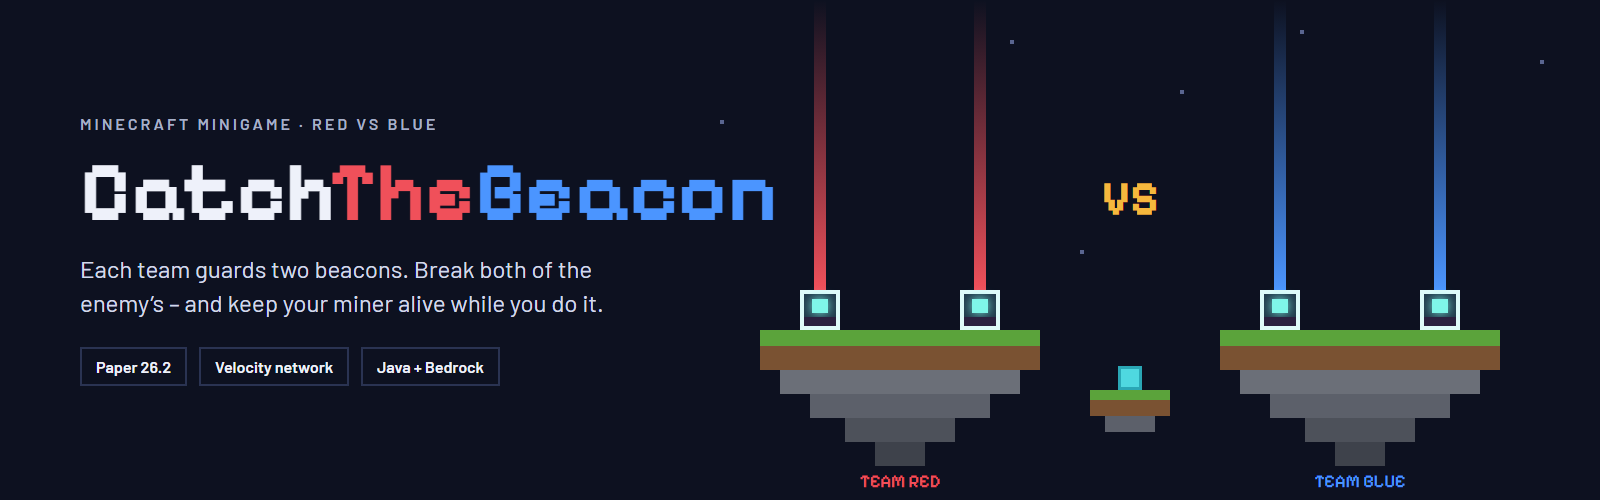
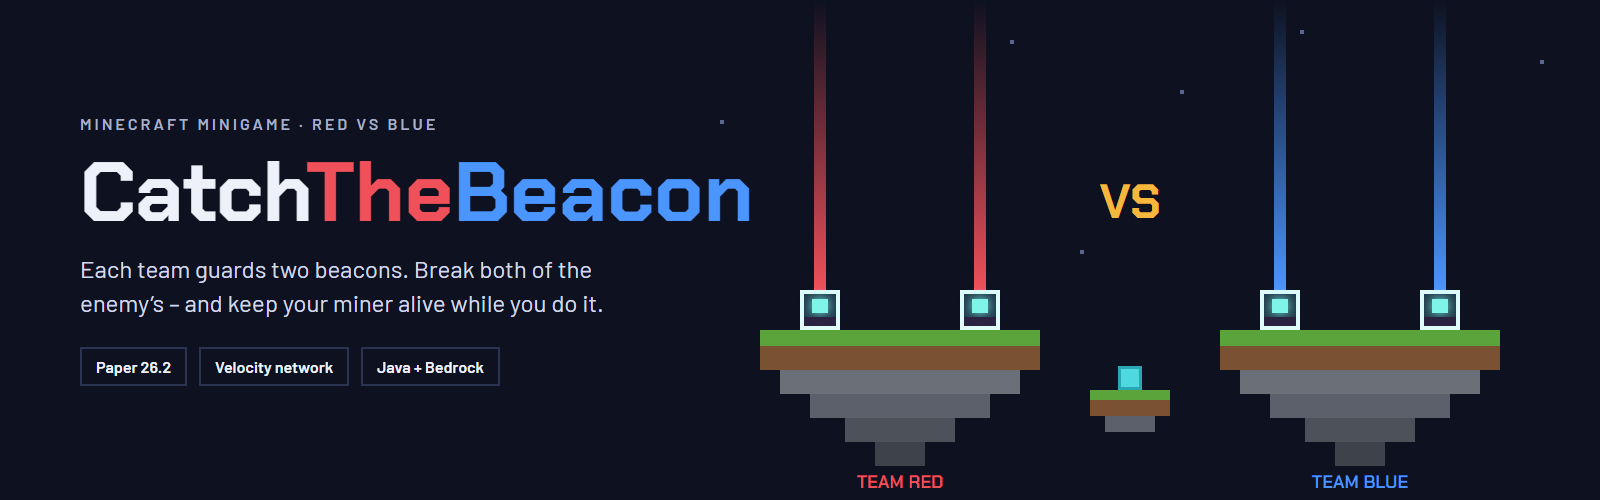
Add README, update the features image and use a more readable heading font

diff --git a/branding/design/Features.dc.html b/branding/design/Features.dc.html
@@ -9,71 +9,113 @@
 <x-dc>
 <helmet>
 <link rel="preconnect" href="https://fonts.googleapis.com">
-<link href="https://fonts.googleapis.com/css2?family=Pixelify+Sans:wght@500;700&amp;family=Barlow:wght@400;600&amp;display=swap" rel="stylesheet">
+<link href="https://fonts.googleapis.com/css2?family=Chakra+Petch:wght@600;700&amp;family=Barlow:wght@400;600&amp;display=swap" rel="stylesheet">
 <style>
 body{margin:0}
 a{color:#7FF5E8}a:hover{color:#BFFBF4}
 </style>
 </helmet>
-<div style="width: 1600px; height: 900px; box-sizing: border-box; padding: 56px 64px; background: #0D1120; font-family: 'Barlow', sans-serif; color: #EEF1FA; display: flex; flex-direction: column; gap: 40px">
+<div style="width: 1600px; height: 900px; box-sizing: border-box; padding: 52px 64px; background: #0D1120; font-family: 'Barlow', sans-serif; color: #EEF1FA; display: flex; flex-direction: column; gap: 32px">
 <div style="display: flex; flex-direction: column; gap: 10px">
-<h2 style="margin: 0; font-family: 'Pixelify Sans', sans-serif; font-weight: 700; font-size: 56px">Built for real matches</h2>
-<p style="margin: 0; font-size: 22px; color: #D3D9EA">Tactical PvP for small and big servers – set up in minutes, no config editing.</p>
+<h2 style="margin: 0; font-family: 'Chakra Petch', sans-serif; font-weight: 700; font-size: 56px">Built for real matches</h2>
+<p style="margin: 0; font-size: 22px; color: #D3D9EA">Tactical team PvP for Paper – from a single server to a Velocity network.</p>
 </div>
-<div style="display: grid; grid-template-columns: repeat(3, minmax(0, 1fr)); gap: 24px; flex-grow: 1">
+<div style="display: grid; grid-template-columns: repeat(4, minmax(0, 1fr)); grid-template-rows: repeat(3, minmax(0, 1fr)); gap: 20px; flex-grow: 1">
 
-<div style="background: #151B2E; border: 2px solid #2A3352; padding: 28px; display: flex; flex-direction: column; gap: 12px">
-<svg width="36" height="36" viewBox="0 0 24 24" fill="none" stroke="#7FF5E8" stroke-width="2" stroke-linecap="square"><rect x="5" y="12" width="14" height="10"></rect><line x1="12" y1="2" x2="12" y2="12"></line><rect x="9" y="15" width="6" height="4"></rect></svg>
-<h3 style="margin: 0; font-size: 24px; font-weight: 600">Two beacons per team</h3>
-<p style="margin: 0; font-size: 17px; line-height: 1.45; color: #D3D9EA">Break both enemy cores to win. Losing one isn’t the end.</p>
+<div style="background: #151B2E; border: 2px solid #2A3352; padding: 22px 24px; display: flex; flex-direction: column; gap: 10px">
+<div style="display: flex; gap: 12px; align-items: center">
+<svg width="30" height="30" viewBox="0 0 24 24" fill="none" stroke="#7FF5E8" stroke-width="2" stroke-linecap="square"><rect x="5" y="12" width="14" height="10"></rect><line x1="12" y1="2" x2="12" y2="12"></line><rect x="9" y="15" width="6" height="4"></rect></svg>
+<h3 style="margin: 0; font-size: 23px; font-weight: 600">Two beacons per team</h3>
 </div>
-
-<div style="background: #151B2E; border: 2px solid #2A3352; padding: 28px; display: flex; flex-direction: column; gap: 12px">
-<svg width="36" height="36" viewBox="0 0 24 24" fill="none" stroke="#F5B83D" stroke-width="2" stroke-linecap="square"><path d="M4 8c4-5 12-5 16 0"></path><line x1="12" y1="5" x2="12" y2="21"></line><line x1="9" y1="21" x2="15" y2="21"></line></svg>
-<h3 style="margin: 0; font-size: 24px; font-weight: 600">Mining Fatigue zones</h3>
-<p style="margin: 0; font-size: 17px; line-height: 1.45; color: #D3D9EA">A beacon takes ~15 s to break. Rushing alone won’t work – teamwork does.</p>
+<p style="margin: 0; font-size: 18px; line-height: 1.45; color: #D3D9EA">Break both enemy cores to win. A live boss bar shows every attack on a beacon.</p>
 </div>
 
-<div style="background: #151B2E; border: 2px solid #2A3352; padding: 28px; display: flex; flex-direction: column; gap: 12px">
-<svg width="36" height="36" viewBox="0 0 24 24" fill="none" stroke="#4FD8E0" stroke-width="2" stroke-linejoin="miter"><path d="M6 3h12l4 6-10 12L2 9z"></path><path d="M2 9h20"></path></svg>
-<h3 style="margin: 0; font-size: 24px; font-weight: 600">Resources, not generators</h3>
-<p style="margin: 0; font-size: 17px; line-height: 1.45; color: #D3D9EA">Iron and diamond blocks are part of the map. Raid the enemy’s, secure yours.</p>
+<div style="background: #151B2E; border: 2px solid #2A3352; padding: 22px 24px; display: flex; flex-direction: column; gap: 10px">
+<div style="display: flex; gap: 12px; align-items: center">
+<svg width="30" height="30" viewBox="0 0 24 24" fill="none" stroke="#F5B83D" stroke-width="2" stroke-linecap="square"><path d="M4 8c4-5 12-5 16 0"></path><line x1="12" y1="5" x2="12" y2="21"></line><line x1="9" y1="21" x2="15" y2="21"></line></svg>
+<h3 style="margin: 0; font-size: 23px; font-weight: 600">Mining Fatigue zones</h3>
+</div>
+<p style="margin: 0; font-size: 18px; line-height: 1.45; color: #D3D9EA">A beacon takes about 15 seconds. One player mines, the team has to cover them.</p>
 </div>
 
-<div style="background: #151B2E; border: 2px solid #2A3352; padding: 28px; display: flex; flex-direction: column; gap: 12px">
-<svg width="36" height="36" viewBox="0 0 24 24" fill="none" stroke="#F0505A" stroke-width="2" stroke-linejoin="round"><path d="M12 20s-8-5-8-11a4 4 0 0 1 8-1 4 4 0 0 1 8 1c0 6-8 11-8 11z"></path></svg>
-<h3 style="margin: 0; font-size: 24px; font-weight: 600">Fair kit</h3>
-<p style="margin: 0; font-size: 17px; line-height: 1.45; color: #D3D9EA">Start gear on every respawn, 16 arrows, 3 extra hearts, protected spawn.</p>
+<div style="background: #151B2E; border: 2px solid #2A3352; padding: 22px 24px; display: flex; flex-direction: column; gap: 10px">
+<div style="display: flex; gap: 12px; align-items: center">
+<svg width="30" height="30" viewBox="0 0 24 24" fill="none" stroke="#4B95FF" stroke-width="2" stroke-linejoin="miter"><path d="M12 2l8 3v6c0 5-3.5 9-8 11-4.5-2-8-6-8-11V5z"></path></svg>
+<h3 style="margin: 0; font-size: 23px; font-weight: 600">Base defense</h3>
+</div>
+<p style="margin: 0; font-size: 18px; line-height: 1.45; color: #D3D9EA">Alarm when enemies get close, a trap at every beacon, regeneration for defenders, no camping.</p>
 </div>
 
-<div style="background: #151B2E; border: 2px solid #2A3352; padding: 28px; display: flex; flex-direction: column; gap: 12px">
-<svg width="36" height="36" viewBox="0 0 24 24" fill="none" stroke="#8CC77F" stroke-width="2" stroke-linecap="square"><path d="M14 4l6 6"></path><path d="M10 4c4 0 8 2 10 6"></path><line x1="16" y1="8" x2="4" y2="20"></line></svg>
-<h3 style="margin: 0; font-size: 24px; font-weight: 600">Fully breakable maps</h3>
-<p style="margin: 0; font-size: 17px; line-height: 1.45; color: #D3D9EA">Bridge, tunnel and dig anywhere – or protect blocks via config.</p>
+<div style="background: #151B2E; border: 2px solid #2A3352; padding: 22px 24px; display: flex; flex-direction: column; gap: 10px">
+<div style="display: flex; gap: 12px; align-items: center">
+<svg width="30" height="30" viewBox="0 0 24 24" fill="none" stroke="#4FD8E0" stroke-width="2" stroke-linejoin="miter"><path d="M6 3h12l4 6-10 12L2 9z"></path><path d="M2 9h20"></path></svg>
+<h3 style="margin: 0; font-size: 23px; font-weight: 600">No generators</h3>
+</div>
+<p style="margin: 0; font-size: 18px; line-height: 1.45; color: #D3D9EA">Iron and diamond blocks of the map give armor and swords. Raid the enemy’s, secure yours.</p>
 </div>
 
-<div style="background: #151B2E; border: 2px solid #2A3352; padding: 28px; display: flex; flex-direction: column; gap: 12px">
-<svg width="36" height="36" viewBox="0 0 24 24" fill="none" stroke="#7FF5E8" stroke-width="2" stroke-linecap="square"><rect x="4" y="3" width="16" height="18"></rect><path d="M8 9l2 2 4-4"></path><line x1="8" y1="16" x2="16" y2="16"></line></svg>
-<h3 style="margin: 0; font-size: 24px; font-weight: 600">Guided arena setup</h3>
-<p style="margin: 0; font-size: 17px; line-height: 1.45; color: #D3D9EA">Hotbar tools and a checklist walk you through spawns and beacons.</p>
+<div style="background: #151B2E; border: 2px solid #2A3352; padding: 22px 24px; display: flex; flex-direction: column; gap: 10px">
+<div style="display: flex; gap: 12px; align-items: center">
+<svg width="30" height="30" viewBox="0 0 24 24" fill="none" stroke="#F0505A" stroke-width="2" stroke-linejoin="round"><path d="M12 20s-8-5-8-11a4 4 0 0 1 8-1 4 4 0 0 1 8 1c0 6-8 11-8 11z"></path></svg>
+<h3 style="margin: 0; font-size: 23px; font-weight: 600">Fair kit</h3>
+</div>
+<p style="margin: 0; font-size: 18px; line-height: 1.45; color: #D3D9EA">Fresh kit on every respawn, 16 arrows, 3 extra hearts, spawn protection. Modern or 1.8 PvP.</p>
 </div>
 
-<div style="background: #151B2E; border: 2px solid #2A3352; padding: 28px; display: flex; flex-direction: column; gap: 12px">
-<svg width="36" height="36" viewBox="0 0 24 24" fill="none" stroke="#F5B83D" stroke-width="2" stroke-linecap="square"><rect x="3" y="4" width="18" height="11"></rect><line x1="12" y1="15" x2="12" y2="21"></line><line x1="7" y1="8" x2="17" y2="8"></line><line x1="7" y1="11" x2="13" y2="11"></line></svg>
-<h3 style="margin: 0; font-size: 24px; font-weight: 600">Signs, NPCs, parties</h3>
-<p style="margin: 0; font-size: 17px; line-height: 1.45; color: #D3D9EA">Join signs, Citizens/FancyNpcs, Parties and Party and Friends.</p>
+<div style="background: #151B2E; border: 2px solid #2A3352; padding: 22px 24px; display: flex; flex-direction: column; gap: 10px">
+<div style="display: flex; gap: 12px; align-items: center">
+<svg width="30" height="30" viewBox="0 0 24 24" fill="none" stroke="#F5B83D" stroke-width="2" stroke-linecap="square"><rect x="3" y="3" width="18" height="18"></rect><rect x="7" y="7" width="2" height="2"></rect><rect x="15" y="7" width="2" height="2"></rect><rect x="11" y="11" width="2" height="2"></rect><rect x="7" y="15" width="2" height="2"></rect><rect x="15" y="15" width="2" height="2"></rect></svg>
+<h3 style="margin: 0; font-size: 23px; font-weight: 600">Variants and events</h3>
+</div>
+<p style="margin: 0; font-size: 18px; line-height: 1.45; color: #D3D9EA">Vote for Rush, Bow only, No iron or One hit. Timed events keep every round moving.</p>
 </div>
 
-<div style="background: #151B2E; border: 2px solid #2A3352; padding: 28px; display: flex; flex-direction: column; gap: 12px">
-<svg width="36" height="36" viewBox="0 0 24 24" fill="none" stroke="#4B95FF" stroke-width="2" stroke-linecap="square"><rect x="9" y="2" width="6" height="6"></rect><rect x="2" y="16" width="6" height="6"></rect><rect x="16" y="16" width="6" height="6"></rect><path d="M12 8v4M5 16v-4h14v4"></path></svg>
-<h3 style="margin: 0; font-size: 24px; font-weight: 600">Velocity network mode</h3>
-<p style="margin: 0; font-size: 17px; line-height: 1.45; color: #D3D9EA">One game per server, lobby signs with live status, shared MySQL stats.</p>
+<div style="background: #151B2E; border: 2px solid #2A3352; padding: 22px 24px; display: flex; flex-direction: column; gap: 10px">
+<div style="display: flex; gap: 12px; align-items: center">
+<svg width="30" height="30" viewBox="0 0 24 24" fill="none" stroke="#8CC77F" stroke-width="2" stroke-linecap="square"><path d="M7 3h10v6a5 5 0 0 1-10 0z"></path><path d="M7 5H3v2a4 4 0 0 0 4 4M17 5h4v2a4 4 0 0 1-4 4"></path><line x1="12" y1="14" x2="12" y2="18"></line><line x1="8" y1="21" x2="16" y2="21"></line></svg>
+<h3 style="margin: 0; font-size: 23px; font-weight: 600">Stats and achievements</h3>
+</div>
+<p style="margin: 0; font-size: 18px; line-height: 1.45; color: #D3D9EA">Leaderboard, 8 achievements and a round summary with MVP. SQLite or MySQL.</p>
 </div>
 
-<div style="background: #151B2E; border: 2px solid #2A3352; padding: 28px; display: flex; flex-direction: column; gap: 12px">
-<svg width="36" height="36" viewBox="0 0 24 24" fill="none" stroke="#8CC77F" stroke-width="2" stroke-linecap="square"><line x1="4" y1="20" x2="20" y2="20"></line><rect x="6" y="12" width="3" height="8"></rect><rect x="11" y="6" width="3" height="14"></rect><rect x="16" y="9" width="3" height="11"></rect></svg>
-<h3 style="margin: 0; font-size: 24px; font-weight: 600">Stats and achievements</h3>
-<p style="margin: 0; font-size: 17px; line-height: 1.45; color: #D3D9EA">SQLite or MySQL, PlaceholderAPI, Bedrock forms via Floodgate.</p>
+<div style="background: #151B2E; border: 2px solid #2A3352; padding: 22px 24px; display: flex; flex-direction: column; gap: 10px">
+<div style="display: flex; gap: 12px; align-items: center">
+<svg width="30" height="30" viewBox="0 0 24 24" fill="none" stroke="#7FF5E8" stroke-width="2" stroke-linejoin="round"><path d="M2 12s4-7 10-7 10 7 10 7-4 7-10 7S2 12 2 12z"></path><circle cx="12" cy="12" r="3"></circle></svg>
+<h3 style="margin: 0; font-size: 23px; font-weight: 600">Spectate and rejoin</h3>
+</div>
+<p style="margin: 0; font-size: 18px; line-height: 1.45; color: #D3D9EA">Watch running games. Lost connection? Come back into your team within 2 minutes.</p>
+</div>
+
+<div style="background: #151B2E; border: 2px solid #2A3352; padding: 22px 24px; display: flex; flex-direction: column; gap: 10px">
+<div style="display: flex; gap: 12px; align-items: center">
+<svg width="30" height="30" viewBox="0 0 24 24" fill="none" stroke="#7FF5E8" stroke-width="2" stroke-linecap="square"><rect x="4" y="3" width="16" height="18"></rect><path d="M8 9l2 2 4-4"></path><line x1="8" y1="16" x2="16" y2="16"></line></svg>
+<h3 style="margin: 0; font-size: 23px; font-weight: 600">Setup in minutes</h3>
+</div>
+<p style="margin: 0; font-size: 18px; line-height: 1.45; color: #D3D9EA">Guided setup with hotbar tools. Map presets: drop in the Sakura zip and play.</p>
+</div>
+
+<div style="background: #151B2E; border: 2px solid #2A3352; padding: 22px 24px; display: flex; flex-direction: column; gap: 10px">
+<div style="display: flex; gap: 12px; align-items: center">
+<svg width="30" height="30" viewBox="0 0 24 24" fill="none" stroke="#F5B83D" stroke-width="2" stroke-linecap="square"><rect x="3" y="4" width="18" height="11"></rect><line x1="12" y1="15" x2="12" y2="21"></line><line x1="7" y1="8" x2="17" y2="8"></line><line x1="7" y1="11" x2="13" y2="11"></line></svg>
+<h3 style="margin: 0; font-size: 23px; font-weight: 600">Signs, NPCs, parties</h3>
+</div>
+<p style="margin: 0; font-size: 18px; line-height: 1.45; color: #D3D9EA">Join signs, Citizens and FancyNpcs, Parties and Party and Friends. Balanced teams.</p>
+</div>
+
+<div style="background: #151B2E; border: 2px solid #2A3352; padding: 22px 24px; display: flex; flex-direction: column; gap: 10px">
+<div style="display: flex; gap: 12px; align-items: center">
+<svg width="30" height="30" viewBox="0 0 24 24" fill="none" stroke="#4B95FF" stroke-width="2" stroke-linecap="square"><rect x="9" y="2" width="6" height="6"></rect><rect x="2" y="16" width="6" height="6"></rect><rect x="16" y="16" width="6" height="6"></rect><path d="M12 8v4M5 16v-4h14v4"></path></svg>
+<h3 style="margin: 0; font-size: 23px; font-weight: 600">Velocity network</h3>
+</div>
+<p style="margin: 0; font-size: 18px; line-height: 1.45; color: #D3D9EA">One game per server, lobby signs with live status, shared stats in MySQL.</p>
+</div>
+
+<div style="background: #151B2E; border: 2px solid #2A3352; padding: 22px 24px; display: flex; flex-direction: column; gap: 10px">
+<div style="display: flex; gap: 12px; align-items: center">
+<svg width="30" height="30" viewBox="0 0 24 24" fill="none" stroke="#8CC77F" stroke-width="2" stroke-linecap="square"><path d="M8 2v5M16 2v5"></path><path d="M5 7h14v4a7 7 0 0 1-14 0z"></path><line x1="12" y1="18" x2="12" y2="22"></line></svg>
+<h3 style="margin: 0; font-size: 23px; font-weight: 600">Works with your plugins</h3>
+</div>
+<p style="margin: 0; font-size: 18px; line-height: 1.45; color: #D3D9EA">PlaceholderAPI, TAB, EssentialsX, Multiverse, Vault rewards, Bedrock forms via Floodgate.</p>
 </div>
 </div>
 </div>

diff --git a/branding/design/HowItWorks.dc.html b/branding/design/HowItWorks.dc.html
@@ -9,7 +9,7 @@
 <x-dc>
 <helmet>
 <link rel="preconnect" href="https://fonts.googleapis.com">
-<link href="https://fonts.googleapis.com/css2?family=Pixelify+Sans:wght@500;700&amp;family=Barlow:wght@400;600&amp;display=swap" rel="stylesheet">
+<link href="https://fonts.googleapis.com/css2?family=Chakra+Petch:wght@600;700&amp;family=Barlow:wght@400;600&amp;display=swap" rel="stylesheet">
 <style>
 body{margin:0}
 a{color:#7FF5E8}a:hover{color:#BFFBF4}
@@ -18,21 +18,21 @@ a{color:#7FF5E8}a:hover{color:#BFFBF4}
 <div style="position: relative; width: 1600px; height: 900px; overflow: hidden; background: #0D1120; font-family: 'Barlow', sans-serif; color: #EEF1FA">
 
 <div style="position: absolute; left: 64px; top: 56px; width: 1400px; display: flex; flex-direction: column; gap: 10px">
-<h2 style="margin: 0; font-family: 'Pixelify Sans', sans-serif; font-weight: 700; font-size: 56px">How a round works</h2>
+<h2 style="margin: 0; font-family: 'Chakra Petch', sans-serif; font-weight: 700; font-size: 56px">How a round works</h2>
 <p style="margin: 0; font-size: 22px; color: #D3D9EA">Red vs Blue on a sky map. Every team guards <b>two beacons</b>. Break both enemy beacons to win.</p>
 </div>
 
 <div style="position: absolute; left: 64px; top: 200px; width: 980px; height: 620px; background: #151B2E; border: 2px solid #2A3352; box-sizing: border-box">
 
 <div style="position: absolute; left: 40px; top: 150px; width: 260px; height: 320px; box-sizing: border-box; background: #2E1A22; border: 3px solid #F0505A"></div>
-<div style="position: absolute; left: 52px; top: 160px; font-family: 'Pixelify Sans', sans-serif; font-size: 18px; color: #F0505A">RED BASE</div>
+<div style="position: absolute; left: 52px; top: 160px; font-family: 'Chakra Petch', sans-serif; font-size: 18px; color: #F0505A">RED BASE</div>
 <div style="position: absolute; left: 680px; top: 150px; width: 260px; height: 320px; box-sizing: border-box; background: #162847; border: 3px solid #4B95FF"></div>
-<div style="position: absolute; left: 836px; top: 160px; font-family: 'Pixelify Sans', sans-serif; font-size: 18px; color: #4B95FF">BLUE BASE</div>
+<div style="position: absolute; left: 836px; top: 160px; font-family: 'Chakra Petch', sans-serif; font-size: 18px; color: #4B95FF">BLUE BASE</div>
 
 <div style="position: absolute; left: 300px; top: 290px; width: 80px; height: 20px; background: #3A4466"></div>
 <div style="position: absolute; left: 600px; top: 290px; width: 80px; height: 20px; background: #3A4466"></div>
 <div style="position: absolute; left: 380px; top: 200px; width: 220px; height: 220px; box-sizing: border-box; background: #1E2B26; border: 3px solid #4F7A48"></div>
-<div style="position: absolute; left: 392px; top: 210px; font-family: 'Pixelify Sans', sans-serif; font-size: 18px; color: #8CC77F">MID</div>
+<div style="position: absolute; left: 392px; top: 210px; font-family: 'Chakra Petch', sans-serif; font-size: 18px; color: #8CC77F">MID</div>
 
 <div style="position: absolute; left: 652px; top: 118px; width: 180px; height: 180px; box-sizing: border-box; border-radius: 50%; border: 3px dashed #F5B83D; background: rgba(245,184,61,0.08)"></div>
 <div style="position: absolute; left: 652px; top: 328px; width: 180px; height: 180px; box-sizing: border-box; border-radius: 50%; border: 3px dashed #F5B83D; background: rgba(245,184,61,0.08)"></div>
@@ -93,21 +93,21 @@ a{color:#7FF5E8}a:hover{color:#BFFBF4}
 
 <div style="position: absolute; left: 1100px; top: 200px; width: 436px; display: flex; flex-direction: column; gap: 36px">
 <div style="display: flex; gap: 20px">
-<div style="font-family: 'Pixelify Sans', sans-serif; font-weight: 700; font-size: 44px; line-height: 1; color: #F5B83D">1</div>
+<div style="font-family: 'Chakra Petch', sans-serif; font-weight: 700; font-size: 44px; line-height: 1; color: #F5B83D">1</div>
 <div style="display: flex; flex-direction: column; gap: 8px">
 <h3 style="margin: 0; font-size: 26px; font-weight: 600">Gear up</h3>
 <p style="margin: 0; font-size: 18px; line-height: 1.45; color: #D3D9EA">Fresh kit on every respawn: 16 arrows, 3 extra hearts. Upgrade by mining the iron and diamond blocks built into the map – no generators.</p>
 </div>
 </div>
 <div style="display: flex; gap: 20px">
-<div style="font-family: 'Pixelify Sans', sans-serif; font-weight: 700; font-size: 44px; line-height: 1; color: #F5B83D">2</div>
+<div style="font-family: 'Chakra Petch', sans-serif; font-weight: 700; font-size: 44px; line-height: 1; color: #F5B83D">2</div>
 <div style="display: flex; flex-direction: column; gap: 8px">
 <h3 style="margin: 0; font-size: 26px; font-weight: 600">Push as a team</h3>
 <p style="margin: 0; font-size: 18px; line-height: 1.45; color: #D3D9EA">Near an enemy beacon you get Mining Fatigue. One player breaks the beacon, the others keep them alive.</p>
 </div>
 </div>
 <div style="display: flex; gap: 20px">
-<div style="font-family: 'Pixelify Sans', sans-serif; font-weight: 700; font-size: 44px; line-height: 1; color: #F5B83D">3</div>
+<div style="font-family: 'Chakra Petch', sans-serif; font-weight: 700; font-size: 44px; line-height: 1; color: #F5B83D">3</div>
 <div style="display: flex; flex-direction: column; gap: 8px">
 <h3 style="margin: 0; font-size: 26px; font-weight: 600">Catch both beacons</h3>
 <p style="margin: 0; font-size: 18px; line-height: 1.45; color: #D3D9EA">The first team to break both enemy beacons wins. Meanwhile: don’t forget to defend your own.</p>

diff --git a/branding/design/Main.dc.html b/branding/design/Main.dc.html
@@ -9,7 +9,7 @@
 <x-dc>
 <helmet>
 <link rel="preconnect" href="https://fonts.googleapis.com">
-<link href="https://fonts.googleapis.com/css2?family=Pixelify+Sans:wght@500;700&amp;family=Barlow:wght@400;600&amp;display=swap" rel="stylesheet">
+<link href="https://fonts.googleapis.com/css2?family=Chakra+Petch:wght@600;700&amp;family=Barlow:wght@400;600&amp;display=swap" rel="stylesheet">
 <style>
 body{margin:0}
 a{color:#7FF5E8}a:hover{color:#BFFBF4}
@@ -26,7 +26,7 @@ a{color:#7FF5E8}a:hover{color:#BFFBF4}
 
 <div style="position: absolute; left: 80px; top: 0; bottom: 0; width: 620px; display: flex; flex-direction: column; justify-content: center; gap: 20px">
 <div style="font-size: 16px; font-weight: 600; letter-spacing: 3px; text-transform: uppercase; color: #A7B0C8">Minecraft minigame · Red vs Blue</div>
-<h1 style="margin: 0; font-family: 'Pixelify Sans', sans-serif; font-weight: 700; font-size: 84px; line-height: 0.95">Catch<span style="color: #F0505A">The</span><span style="color: #4B95FF">Beacon</span></h1>
+<h1 style="margin: 0; font-family: 'Chakra Petch', sans-serif; font-weight: 700; font-size: 84px; line-height: 0.95">Catch<span style="color: #F0505A">The</span><span style="color: #4B95FF">Beacon</span></h1>
 <p style="margin: 0; font-size: 24px; line-height: 1.4; color: #D3D9EA; max-width: 560px">Each team guards two beacons. Break both of the enemy’s – and keep your miner alive while you do it.</p>
 <div style="display: flex; gap: 12px; flex-wrap: wrap; margin-top: 8px">
 <div style="padding: 8px 14px; border: 2px solid #2A3352; font-size: 16px; font-weight: 600">Paper 26.2</div>
@@ -40,7 +40,7 @@ a{color:#7FF5E8}a:hover{color:#BFFBF4}
 <div style="position: absolute; left: 1274px; top: 0; width: 12px; height: 290px; background: linear-gradient(to top, #4B95FF, rgba(75,149,255,0))"></div>
 <div style="position: absolute; left: 1434px; top: 0; width: 12px; height: 290px; background: linear-gradient(to top, #4B95FF, rgba(75,149,255,0))"></div>
 
-<div style="position: absolute; left: 1086px; top: 170px; width: 88px; text-align: center; font-family: 'Pixelify Sans', sans-serif; font-weight: 700; font-size: 48px; color: #F5B83D">VS</div>
+<div style="position: absolute; left: 1086px; top: 170px; width: 88px; text-align: center; font-family: 'Chakra Petch', sans-serif; font-weight: 700; font-size: 48px; color: #F5B83D">VS</div>
 
 <div style="position: absolute; left: 760px; top: 330px; width: 280px; height: 16px; background: #5BA33B"></div>
 <div style="position: absolute; left: 760px; top: 346px; width: 280px; height: 24px; background: #7A5232"></div>
@@ -78,8 +78,8 @@ a{color:#7FF5E8}a:hover{color:#BFFBF4}
 <div style="position: absolute; left: 0; right: 0; bottom: 0; height: 9px; background: #2B2140"></div>
 </div>
 
-<div style="position: absolute; left: 760px; top: 470px; width: 280px; text-align: center; font-family: 'Pixelify Sans', sans-serif; font-size: 18px; color: #F0505A">TEAM RED</div>
-<div style="position: absolute; left: 1220px; top: 470px; width: 280px; text-align: center; font-family: 'Pixelify Sans', sans-serif; font-size: 18px; color: #4B95FF">TEAM BLUE</div>
+<div style="position: absolute; left: 760px; top: 470px; width: 280px; text-align: center; font-family: 'Chakra Petch', sans-serif; font-size: 18px; color: #F0505A">TEAM RED</div>
+<div style="position: absolute; left: 1220px; top: 470px; width: 280px; text-align: center; font-family: 'Chakra Petch', sans-serif; font-size: 18px; color: #4B95FF">TEAM BLUE</div>
 </div>
 </x-dc>
 <script type="text/x-dc" data-dc-script data-props='{"$preview":{"width":1600,"height":500}}'>

diff --git a/README.md b/README.md
@@ -1,0 +1,125 @@
+![CatchTheBeacon](https://raw.githubusercontent.com/itsthechris07/CatchTheBeacon/main/branding/banner.png)
+
+# CatchTheBeacon
+
+A team PvP minigame for Paper: **Red vs Blue on a sky map, every team guards two beacons.** Break both enemy beacons
+to win – but near an enemy beacon you get Mining Fatigue, so one player mines while the rest of the team keeps them
+alive.
+
+![How a round works](https://raw.githubusercontent.com/itsthechris07/CatchTheBeacon/main/branding/how-it-works.png)
+
+## Features
+
+![Features](https://raw.githubusercontent.com/itsthechris07/CatchTheBeacon/main/branding/features.png)
+
+**Gameplay**
+- **Two beacons per team** – both enemy beacons destroyed = victory. A boss bar shows everybody when a beacon is
+  being mined.
+- **Mining Fatigue around beacons** – breaking a beacon takes about 15 seconds, attacks need teamwork.
+- **Base defense** – the team is warned when enemies come close, every beacon has a trap (blindness + slowness),
+  defenders regenerate near their beacons and campers get poison.
+- **No generators** – iron and diamond blocks of the map give armor and swords when mined. Steal the enemy's iron,
+  guard your own.
+- **Fair start** – a fresh kit on every respawn (16 arrows, wool, stone tools, leather armor in team colors),
+  3 extra hearts, spawn and respawn protection, a compass pointing to the next enemy beacon.
+- **Modern or 1.8 PvP** – with or without attack cooldown.
+- **Variants** – players vote in the lobby: *Rush* (beacons break twice as fast, events come twice as often), *Bow only*, *No iron*, *One hit*.
+- **Timed events** – beacon protection ends after 10 minutes, effects after 15, the round ends after 25 (all configurable).
+- **The whole map can be broken** – or only placed blocks, with protected blocks of your choice.
+- **Stats, leaderboard and achievements** – kills, deaths, K/D, wins, beacons, `/ctb top`, 8 achievements, a round
+  summary with MVP. SQLite or MySQL/MariaDB.
+- **Spectators and rejoin** – watch running games, players who lose their connection get back into their team.
+- **Balanced teams** by win rate, team chat with `!` to shout, game chats don't mix with the server chat.
+- **Tips** for new players during their first rounds.
+
+**For server owners**
+- **Guided arena setup** – `/ctb arena <name> setup` gives you hotbar tools for spawns and beacons and a checklist.
+- **Map presets** – download a supported map, drop the zip into `plugins/CatchTheBeacon/maps` and it is set up
+  automatically (currently: [Sakura by BreadBuilds](https://www.planetminecraft.com/project/sakura-cores-map/)).
+  The lobby comes with the plugin.
+- **Join signs and NPCs** – `[ctb]` signs with live status, Citizens or FancyNpcs as join NPCs.
+- **Game manager GUI** – `/ctb game` lists, starts, stops and creates games.
+- **Velocity network** – one game per server, lobby server with join signs that show the state of every game server.
+- **VIP perks** (`ctb.vip`) – start the game, join full lobbies, double vote, join message, kill particles and a
+  victory firework. Cosmetic only, no advantage in the fight.
+- **Your world stays untouched** – inventories, stats, advancements and recipes of the players are saved and given back.
+- **Every message can be changed** in `messages.yml` (MiniMessage).
+
+## Supported plugins
+
+All optional:
+
+| Plugin | What CatchTheBeacon does with it |
+|---|---|
+| PlaceholderAPI, MiniPlaceholders | Placeholders for stats, leaderboard and game state |
+| Parties, Party and Friends | Parties join together and play in the same team |
+| Citizens, FancyNpcs | Join NPCs that show the state of the game |
+| Vault / VaultUnlocked | Money for kills, beacons, wins and played rounds |
+| TAB | Tab list, name tags in team colors and sidebar during the game |
+| EssentialsX, SuperVanish, PremiumVanish | God mode, vanish and AFK are turned off in the game, no `/back` into games |
+| Multiverse-Core, Multiverse-Inventories | Game worlds are kept out of Multiverse |
+| Floodgate (Geyser) | Bedrock players get forms instead of chest menus |
+
+## Requirements
+
+- **Paper 26.2** (only the current version is supported)
+- **Java 25**
+
+## Getting started
+
+1. Put `CatchTheBeacon.jar` into `plugins/` and start the server.
+2. Get a map:
+   - **Preset:** download [Sakura](https://www.planetminecraft.com/project/sakura-cores-map/), put the zip into
+     `plugins/CatchTheBeacon/maps/` and restart (or run `/ctb arena create sakura`). Done – the game starts as soon
+     as enough players join.
+   - **Your own map:** copy the world folder to `plugins/CatchTheBeacon/maps/<name>` (or use
+     `/ctb arena create <name> --world <world>`), set a lobby world with `/ctb arena <name> lobby setworld <map or world>`,
+     then run `/ctb arena <name> setup` and follow the steps. Every team needs a spawn and two beacons.
+3. `/ctb arena <name> creategame` – or place a sign with `[ctb]` in the first line and the arena name in the second.
+4. Players join with `/ctb join` or the sign.
+
+## Commands
+
+| Command | Permission | |
+|---|---|---|
+| `/ctb join`, `/ctb quit`, `/ctb spectate` | – | Join, leave or watch a game |
+| `/ctb stats [player]`, `/ctb achievements [player]`, `/ctb top [stat]` | – | Stats and leaderboard |
+| `/ctb start` | `ctb.vip` | Starts the game in the lobby immediately |
+| `/ctb arena create <name> [--world <world>]`, `/ctb arena list` | `ctb.admin` | Create and list arenas |
+| `/ctb arena <arena> setup` / `check` / `creategame` / `removegame` | `ctb.admin` | Set up and run an arena |
+| `/ctb game` | `ctb.admin` | Game manager (GUI) |
+| `/ctb npc link <arena>` / `unlink` / `list` | `ctb.admin` | Join NPCs |
+| `/ctb config items set` | `ctb.admin` | Saves your inventory as the kit |
+
+`/ctb help` shows all commands. `ctb.network.bypass`: not put into the game automatically on a game server.
+
+## Placeholders
+
+PlaceholderAPI (`%ctb_…%`) and MiniPlaceholders:
+`kills`, `deaths`, `kd`, `wins`, `games`, `beacons`, `achievements`, `team`, `arena`,
+`players_<arena>`, `maxplayers_<arena>`, `state_<arena>`, `top_<stat>_<place>_<name|value>`.
+
+## Network (Velocity)
+
+- **Game servers:** `network.mode: game` – one arena per server, players joining the server join the game and are sent
+  back to the lobby afterwards.
+- **Lobby server:** `network.mode: lobby` with the game servers in `network.servers` – join signs (`[ctb]` + server
+  name) and `/ctb join` send players to a free game.
+- Use the same MySQL database on all servers (`sql.enabled: true`) for shared stats.
+
+## Building
+
+```bash
+./gradlew build
+```
+
+The jar is in `build/libs/`. Tests run with MockBukkit.
+
+## Privacy
+
+CatchTheBeacon sends anonymous statistics (bStats), anonymous error reports (Sentry) and checks GitHub for updates.
+Everything can be disabled – see [PRIVACY.md](PRIVACY.md).
+
+## License
+
+[Apache License 2.0](LICENSE)

diff --git a/branding/README.md b/branding/README.md
@@ -12,7 +12,7 @@ Images for the plugin pages on SpigotMC, Modrinth and Hangar.
 ## Editing
 
 The sources are in `design/` (one `.dc.html` per image, `canvas.json` holds the sizes). They were made on a
-Claude design canvas and are plain HTML with inline styles (fonts: Pixelify Sans + Barlow from Google Fonts).
+Claude design canvas and are plain HTML with inline styles (fonts: Chakra Petch + Barlow from Google Fonts).
 
 After a change, render the PNGs again (needs Chrome or Edge):
 
